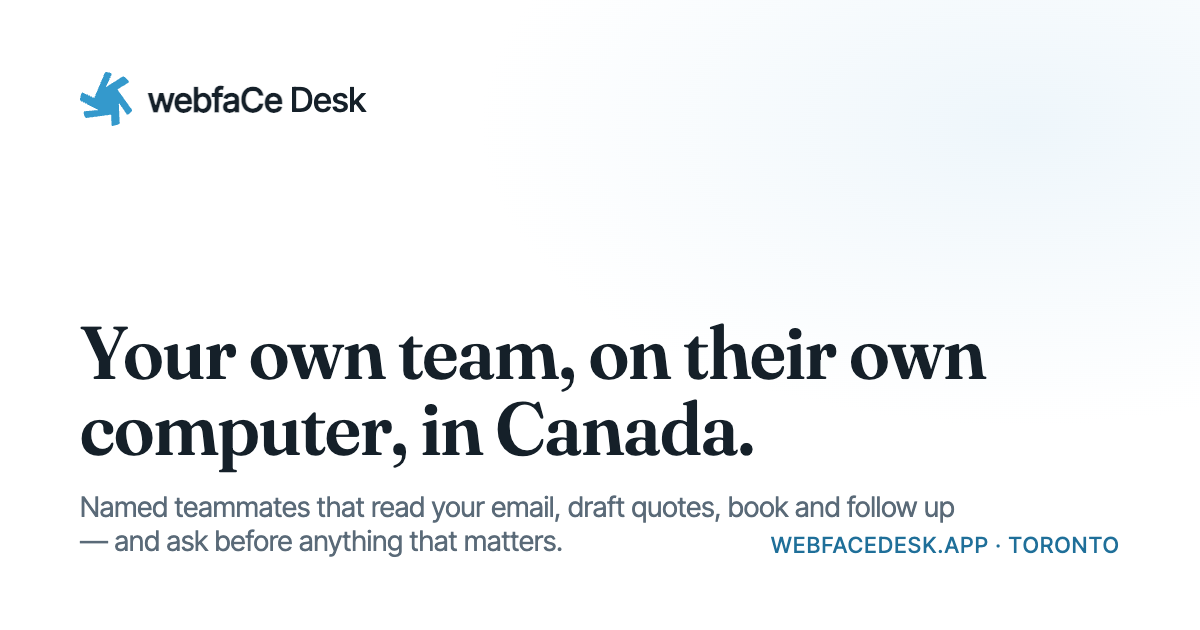
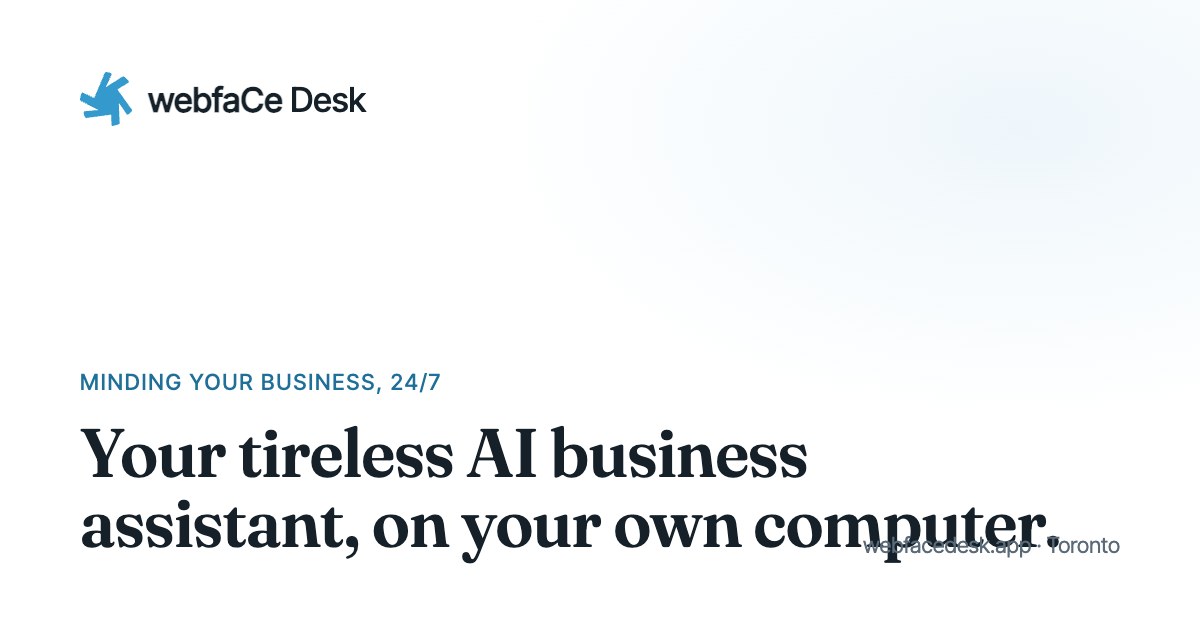
site: Tommy's positioning — tireless AI business assistant on your own computer, minding your business 24/7 (hero, meta, OG)

Changed region(s): [[0.0617, 0.5127, 0.9558, 0.9048]]

diff --git a/apps/site/index.html b/apps/site/index.html
@@ -3,25 +3,25 @@
 <head>
 <meta charset="utf-8">
 <meta name="viewport" content="width=device-width,initial-scale=1">
-<title>webfaCe Desk — your own team, on their own computer, in Canada</title>
-<meta name="description" content="Named teammates that live on a computer of their own, sign in to your tools once, read your email and calendar, draft quotes and replies, book and follow up, and ask before anything that matters. Built and hosted in Toronto.">
+<title>webfaCe Desk — your tireless AI business assistant, on your own computer</title>
+<meta name="description" content="Your tireless AI business assistant, on your own computer. Minding your business 24/7: reads your email and calendar, drafts quotes and replies, books and follows up, and asks before anything that matters. Built and hosted in Toronto.">
 <meta property="og:title" content="webfaCe Desk">
-<meta property="og:description" content="Your own team, on their own computer, in Canada.">
+<meta property="og:description" content="Your tireless AI business assistant, on your own computer. Minding your business, 24/7.">
 <meta property="og:type" content="website">
 <meta property="og:url" content="https://webfacedesk.app/">
 <meta property="og:site_name" content="webfaCe Desk">
 <meta property="og:image" content="https://webfacedesk.app/og.png">
 <meta property="og:image:width" content="1200"><meta property="og:image:height" content="630">
-<meta property="og:image:alt" content="webfaCe Desk — your own team, on their own computer, in Canada.">
+<meta property="og:image:alt" content="webfaCe Desk — your tireless AI business assistant, on your own computer. Minding your business, 24/7.">
 <meta property="og:locale" content="en_CA">
 <meta name="twitter:card" content="summary_large_image">
 <meta name="twitter:title" content="webfaCe Desk">
-<meta name="twitter:description" content="Your own team, on their own computer, in Canada.">
+<meta name="twitter:description" content="Your tireless AI business assistant, on your own computer. Minding your business, 24/7.">
 <meta name="twitter:image" content="https://webfacedesk.app/og.png">
 <link rel="canonical" href="https://webfacedesk.app/">
 <meta name="theme-color" content="#3499cc">
 <meta name="robots" content="index,follow">
-<script type="application/ld+json">{"@context":"https://schema.org","@type":"SoftwareApplication","name":"webfaCe Desk","url":"https://webfacedesk.app/","applicationCategory":"BusinessApplication","operatingSystem":"Web, macOS, Windows, iOS, Android","description":"Named teammates on their own computer in Toronto: read email and calendar, draft quotes and replies, book and follow up, ask before anything that matters.","offers":[{"@type":"Offer","name":"Desk for Business","price":"249","priceCurrency":"CAD","description":"C$1,500 setup, then C$249 per month"},{"@type":"Offer","name":"Desk for Operators","price":"499","priceCurrency":"CAD","description":"C$2,500 setup, then C$499 per month"}],"publisher":{"@type":"Organization","name":"webfaCeMEdia Inc","url":"https://webfacemedia.com/"}}</script>
+<script type="application/ld+json">{"@context":"https://schema.org","@type":"SoftwareApplication","name":"webfaCe Desk","url":"https://webfacedesk.app/","applicationCategory":"BusinessApplication","operatingSystem":"Web, macOS, Windows, iOS, Android","description":"Your tireless AI business assistant, on your own computer. Minding your business 24/7: reads email and calendar, drafts quotes and replies, books and follows up, asks before anything that matters.","offers":[{"@type":"Offer","name":"Desk for Business","price":"249","priceCurrency":"CAD","description":"C$1,500 setup, then C$249 per month"},{"@type":"Offer","name":"Desk for Operators","price":"499","priceCurrency":"CAD","description":"C$2,500 setup, then C$499 per month"}],"publisher":{"@type":"Organization","name":"webfaCeMEdia Inc","url":"https://webfacemedia.com/"}}</script>
 <link rel="icon" href="/favicon.svg" type="image/svg+xml">
 <link rel="preconnect" href="https://fonts.googleapis.com"><link rel="preconnect" href="https://fonts.gstatic.com" crossorigin>
 <link href="https://fonts.googleapis.com/css2?family=Fraunces:opsz,wght@9..144,500;9..144,600&family=Inter+Tight:wght@400;500;600&display=swap" rel="stylesheet">
@@ -69,9 +69,9 @@ footer{padding:40px 0;border-top:1px solid var(--line);color:var(--mute);font-si
 
 <section class="hero" style="border:0"><div class="wrap">
 <div>
-<span class="eyebrow">Built and hosted in Toronto</span>
-<h1>Your own team, on their own computer, in Canada.</h1>
-<p class="lead">Named teammates that sign in to your tools once, read your email and calendar, know your business and your website, draft quotes, replies and documents, book and follow up, run on a schedule — and ask before anything that matters. They keep working when your laptop is closed.</p>
+<span class="eyebrow">Minding your business, 24/7</span>
+<h1>Your tireless AI business assistant, on your own computer.</h1>
+<p class="lead">Overseeing your business around the clock from a computer of its own in Toronto: signed in to your tools once, it reads your email and calendar, knows your business and your website, drafts quotes, replies and documents, books and follows up, runs on a schedule — and asks before anything that matters. It keeps working when your laptop is closed.</p>
 <a class="btn" href="/checkout?plan=business">Get your Desk</a><a class="btn ghost" href="#how">See how it works</a>
 </div>
 <div class="window" aria-label="A Desk team thread">
